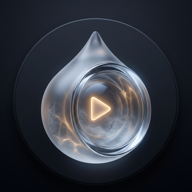
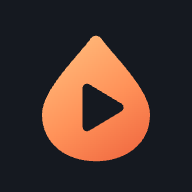
style: 优化手机顶部留白并更新烟雨影视标识

diff --git a/index.html b/index.html
@@ -3,8 +3,9 @@
   <head>
     <meta charset="UTF-8" />
     <meta name="referrer" content="no-referrer" />
-    <link rel="icon" type="image/png" href="%BASE_URL%apple-touch-icon.png" />
-    <link rel="apple-touch-icon" sizes="180x180" href="%BASE_URL%apple-touch-icon.png" />
+    <link rel="icon" type="image/png" sizes="32x32" href="%BASE_URL%favicon-32.png?v=20261102" />
+    <link rel="icon" type="image/svg+xml" href="%BASE_URL%brand-mark.svg" />
+    <link rel="apple-touch-icon" sizes="180x180" href="%BASE_URL%apple-touch-icon.png?v=20261102" />
     <link rel="manifest" href="%BASE_URL%manifest.webmanifest" />
     <meta name="viewport" content="width=device-width, initial-scale=1.0, viewport-fit=cover" />
     <meta name="theme-color" content="#0b0b0d" />
@@ -21,7 +22,7 @@
       #app { min-height: 100vh; min-height: 100dvh; }
       .app-boot { position: fixed; inset: 0; display: grid; width: 100%; height: 100vh; height: 100dvh; min-height: 100svh; box-sizing: border-box; place-items: center; padding: calc(24px + env(safe-area-inset-top, 0px)) calc(24px + env(safe-area-inset-right, 0px)) calc(24px + env(safe-area-inset-bottom, 0px)) calc(24px + env(safe-area-inset-left, 0px)); color: var(--text-primary, #eef1f6); background: var(--liquid-canvas, #0b0b0d); font-family: -apple-system, BlinkMacSystemFont, "SF Pro Display", sans-serif; }
       .app-boot__content { display: grid; justify-items: center; gap: 14px; text-align: center; }
-      .app-boot__mark { width: 54px; height: 54px; object-fit: cover; border: 1px solid rgba(255,255,255,.22); border-radius: 17px; background: rgba(255,255,255,.1); box-shadow: inset 0 1px rgba(255,255,255,.22), 0 18px 50px rgba(0,0,0,.35); }
+      .app-boot__mark { width: 54px; height: 54px; object-fit: contain; }
       .app-boot__title { margin: 0; font-size: 20px; font-weight: 650; letter-spacing: -.02em; }
       .app-boot__hint { margin: 0; color: var(--text-secondary, #a1adbd); font-size: 14px; }
       .app-boot__retry { display: none; min-height: 44px; align-items: center; justify-content: center; padding: 0 22px; color: #a0b9db; border: 1px solid rgba(255,255,255,.22); border-radius: 999px; background: rgba(255,255,255,.12); text-decoration: none; }
@@ -33,7 +34,7 @@
     <div id="app">
       <div class="app-boot" id="app-boot" role="status">
         <div class="app-boot__content">
-          <img class="app-boot__mark" src="%BASE_URL%brand-mark.png" alt="" aria-hidden="true" />
+          <img class="app-boot__mark" src="%BASE_URL%brand-mark.svg" alt="" aria-hidden="true" />
           <p class="app-boot__title">烟雨影视</p>
           <p class="app-boot__hint">正在启动…</p>
           <a class="app-boot__retry" href="%BASE_URL%?webclip=1&retry=1">重新加载</a>

diff --git a/src/assets/styles/cinema.css b/src/assets/styles/cinema.css
@@ -8,6 +8,7 @@
   --glass-blur: none; --glass-blur-heavy: none; --glass-shadow-sm: none;
   --nav-background: rgb(16 17 20 / .97); --mobile-gutter: 18px;
   --mobile-content-bottom: calc(90px + var(--safe-area-bottom));
+  --mobile-header-top-space: 18px;
 }
 :root[data-theme='light'] {
   --liquid-canvas: #f8f9fb; --app-atmosphere: #f8f9fb; --surface-1: #fff; --surface-2: #eef0f4; --surface-3: #e2e5ec; --surface-elevated: #fff;
@@ -17,7 +18,7 @@
 }
 .cinema-header { position: sticky; top: 0; z-index: 300; display: flex; gap: 20px; align-items: center; min-height: 76px; padding: calc(12px + var(--safe-area-top)) 32px 12px; background: var(--nav-background); border-bottom: 1px solid var(--divider); }
 .cinema-brand { display: flex; align-items: center; gap: 9px; border: 0; background: transparent; color: var(--text-primary); text-align: left; font-size: 18px; font-weight: 750; white-space: nowrap; }
-.cinema-brand > :first-child { width: 30px; height: 30px; }
+.cinema-brand > :first-child { width: 32px; height: 32px; flex-shrink: 0; }
 .cinema-brand small { display: block; color: var(--text-tertiary); font-size: 10px; letter-spacing: .2em; margin-top: 4px; }
 .header-search { display: flex; align-items: center; gap: 10px; width: min(480px, 60%); margin-left: auto; padding: 0 17px; min-height: 44px; border: 1px solid var(--divider); border-radius: 24px; background: var(--surface-1); color: var(--text-tertiary); font-size: 13px; text-align: left; }
 .header-search svg, .icon-control svg { width: 20px; height: 20px; flex-shrink: 0; }
@@ -158,9 +159,10 @@
   .discovery-page, .search-page, #app .library-page.page-container, #app .account-page { width: calc(100% - 216px); margin-left: 216px; max-width: none; padding-left: clamp(24px, 3vw, 60px); padding-right: clamp(24px, 3vw, 60px); }
 }
 @media (max-width: 767px) {
-  .cinema-header { padding: calc(8px + var(--safe-area-top)) 14px 8px; gap: 10px; min-height: 64px; }
+  .cinema-header { padding: calc(var(--mobile-header-top-space) + var(--safe-area-top)) max(14px, var(--safe-area-right)) 12px max(14px, var(--safe-area-left)); gap: 10px; min-height: 74px; }
+  .screen-header { padding-top: calc(var(--mobile-header-top-space) + var(--safe-area-top)); padding-bottom: 12px; min-height: 74px; }
   .cinema-brand { font-size: 16px; gap: 6px; }
-  .cinema-brand > :first-child { width: 26px; height: 26px; }
+  .cinema-brand > :first-child { width: 30px; height: 30px; }
   .header-search { flex: 1; width: auto; padding: 0 12px; min-width: 0; gap: 7px; }
   .header-search span { font-size: 11px; overflow: hidden; text-overflow: ellipsis; white-space: nowrap; }
   .header-search svg { width: 16px; height: 16px; }

diff --git a/src/components/auth/LoginScreen.vue b/src/components/auth/LoginScreen.vue
@@ -131,7 +131,7 @@ const submit = () => {
 .login-shell { position: relative; z-index: 1; display: flex; align-items: center; justify-content: center; min-height: var(--app-viewport-height); padding: calc(30px + var(--safe-area-top)) 24px calc(30px + var(--safe-area-bottom)); }
 .login-card { position: relative; width: min(420px, 100%); padding: 40px 24px 26px; }
 .brand-lockup { display: flex; align-items: center; gap: 12px; }
-.brand-mark { width: 54px; height: 54px; overflow: hidden; border: 1px solid var(--divider); border-radius: 19px; box-shadow: 0 7px 18px rgb(44 81 157 / .15); }
+.brand-mark { width: 54px; height: 54px; flex-shrink: 0; }
 .brand-mark :deep(.brand-mark-image) { border-radius: inherit; }
 .brand-copy { display: grid; gap: 3px; }
 .brand-copy strong { font-size: 1.15rem; font-weight: 740; letter-spacing: -.04em; }

diff --git a/src/components/player/QuarkEmbedPlayerModal.vue b/src/components/player/QuarkEmbedPlayerModal.vue
@@ -1809,7 +1809,7 @@ defineExpose({ retry, dismissLayer });
 .episode-panel.sheet-open .episode-list { overflow-y: auto; }
 @media (min-width: 821px) { .player-layout { grid-template-columns: minmax(0, 1fr) 320px; } .video-stage { max-height: calc(100dvh - 200px); } }
 @media (max-width: 820px) {
-  .player-header { min-height: calc(62px + var(--safe-area-top)); padding: calc(6px + var(--safe-area-top)) 12px 6px; }
+  .player-header { min-height: calc(74px + var(--safe-area-top)); padding: calc(var(--mobile-header-top-space, 18px) + var(--safe-area-top)) 12px 12px; }
   .player-layout { display: block; }
   .video-column { display: contents; }
   .video-stage { position: sticky; z-index: 5; top: 0; border-radius: 0; width: 100%; aspect-ratio: 16 / 9; min-height: 210px; max-height: 55dvh; }

diff --git a/src/components/quark/QuarkTransferModal.vue b/src/components/quark/QuarkTransferModal.vue
@@ -485,6 +485,6 @@ useDialog(dialogRef, () => props.isOpen, requestBack);
 @media (min-width: 900px) {
   .dialog-header, .result-search, .result-summary, .result-filters, .dialog-body { width: min(100%, 1000px); margin-left: auto; margin-right: auto; }
 }
-@media (max-width: 640px) { .liquid-dialog { width: 100%; height: var(--app-viewport-height); max-height: none; border-radius: 0; } .dialog-header { padding-top: calc(14px + var(--safe-area-top)); } }
+@media (max-width: 640px) { .liquid-dialog { width: 100%; height: var(--app-viewport-height); max-height: none; border-radius: 0; } .dialog-header { padding-top: calc(var(--mobile-header-top-space, 18px) + var(--safe-area-top)); } }
 
 </style>

diff --git a/src/components/common/BrandMark.vue b/src/components/common/BrandMark.vue
@@ -1,7 +1,7 @@
 <script setup lang="ts">
 import { withAppBase } from '../../services/appUrl';
 
-const brandMarkUrl = withAppBase('brand-mark.png');
+const brandMarkUrl = withAppBase('brand-mark.svg');
 </script>
 
 <template>
@@ -20,7 +20,7 @@ const brandMarkUrl = withAppBase('brand-mark.png');
   display: block;
   width: 100%;
   height: 100%;
-  object-fit: cover;
+  object-fit: contain;
   user-select: none;
   -webkit-user-drag: none;
 }

diff --git a/docs/brand.md b/docs/brand.md
@@ -1,0 +1,13 @@
+# 烟雨影视标识
+
+标识以雨滴轮廓呼应“烟雨”，中央的留白播放键表达影视。暖橙渐变沿用应用的主操作色，小尺寸使用简洁轮廓，不叠加细线或文字。
+
+- 页面标识源文件：public/brand-mark.svg，透明背景，64 × 64 画板。
+- 应用图标源文件：public/app-icon.svg，深色完整背景，512 × 512 画板。
+- 导出图标：favicon 32px、Apple Touch 180px、PWA 192px / 512px；保留旧 PNG 文件路径作为兼容资产。
+- 512px 应用图标的图形半径约 175px，位于 maskable 的 204.8px 安全圆内；圆形或圆角裁切不会切到标识。
+- 页面导航与启动页使用 SVG，避免小尺寸模糊。图标链接使用 v=20261102 更新浏览器缓存。
+- 已安装的 iPhone Web Clip 图标存储于描述文件中，需要重新安装桌面入口才能更新图标；网页内标识随应用版本更新。
+- 手机顶部基础留白通过 --mobile-header-top-space 控制，当前为 18px，并额外叠加系统安全区。桌面导航保持原有留白。
+
+2026-11-02 验证：浏览器检查 320px / 390px 宽度、浅色/暗色以及 47px 模拟顶部安全区，没有横向溢出；应用图标尺寸、完整不透明背景和遮罩安全范围已核对。本次仅为样式与图标调整，未重复执行整站构建。
